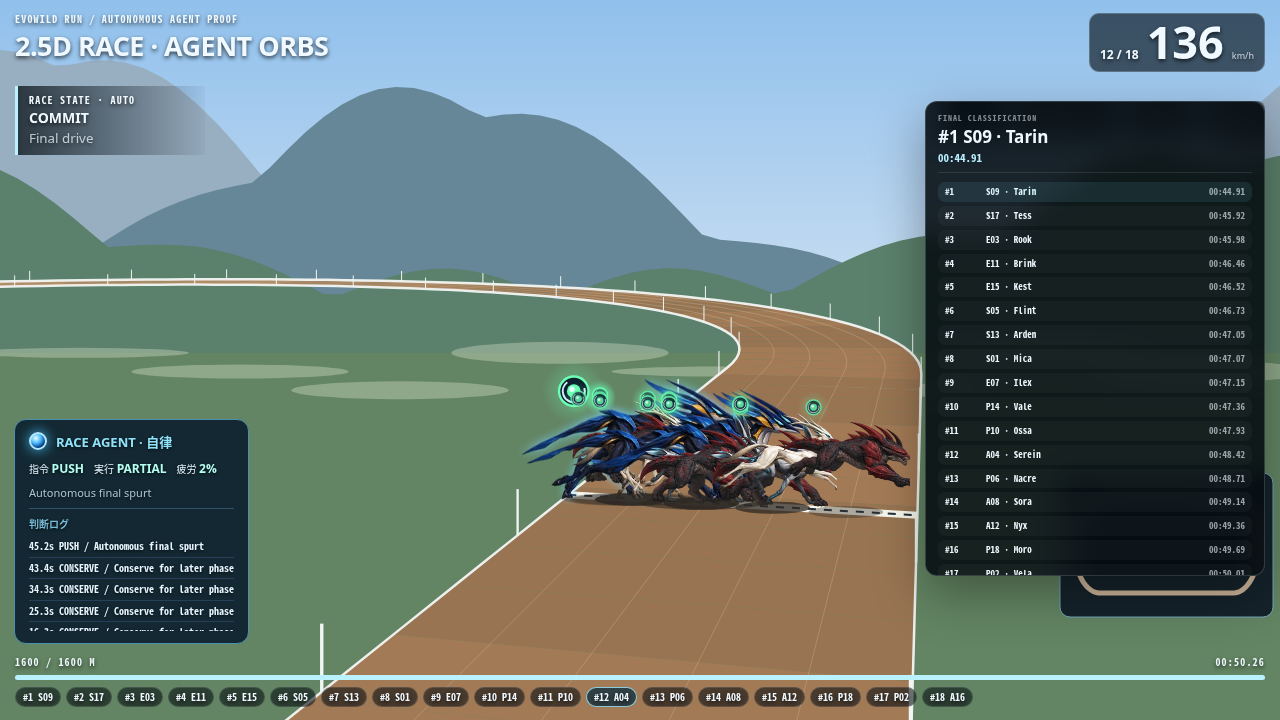
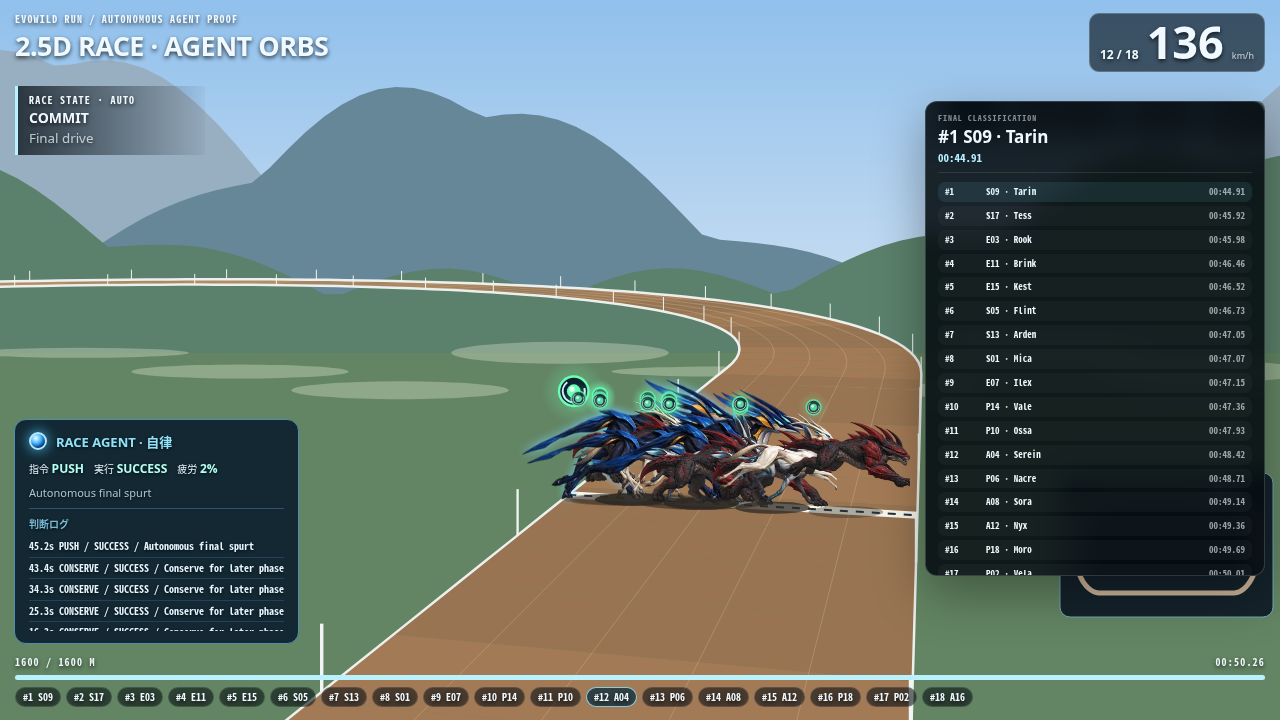
docs(2p5d): recover passing final sweep and current desktop Android evidence

Changed region(s): [[0.0625, 0.5806, 0.25, 0.9167]]

diff --git a/docs/2p5d/evidence/20261025-flow/README.md b/docs/2p5d/evidence/20261025-flow/README.md
@@ -6,6 +6,15 @@ Child branch: `feat/2p5d-flow-persistence-20261025` (Draft PR #132, based on #13
 
 Both user-attached split ZIPs were downloaded successfully (19,899,200 and 16,622,054 bytes). The eleven PNG byte streams were combined in a temporary ZIP so the unchanged repository importer could validate all eleven atomically. `python3 scripts/verify_2p5d_mockups.py` passes all eleven SHA-256 values. No reference, hash, importer or verifier was changed. Original PNGs were pushed in `f904fd95a210d21c978d49320f60df7e90810a17`; GitHub contents API confirmed all eleven filenames and sizes.
 
+## Recovery and final results
+
+Resumed from remote checkpoint `c040191fc19fbc0eb0925e4231fe9d4dc5e61675` by fast-forward, preserving that externally saved interruption record. The pending local suite had already completed: **54 passed (2.9m)**. Its log and latest PNGs were recovered without rerunning imports, fixes or completed races. Screenshots now correspond to source `ad0756349d707945da71588be2e93cdfd912ca7c` (same game source as `c0acb5f`).
+
+- [Combined local suite](final-targeted.log): 54/54 PASS across desktop and Android emulation.
+- [Latest verified Actions](https://github.com/badjoke-lab/evowild-test/actions/runs/40153976228) at `ad07563`: build PASS; **84 passed / 3 failed / 81 skipped**, overall FAILURE. [Extracted log](actions-summary.log). All new tests passed; remaining failures are the original three legacy assertions. The extra parent-head pressure assertion passed in this run.
+- [Agent outcomes](agent-outcome.log): 10/10 PASS, including actual lane request → PENDING → arrival → SUCCESS on both browser projects. The lane integration test advances the browser clock; the full race journey below does not.
+- No existing tests, balances, canonical art or specification/hash files were modified. This recovery only archives existing evidence and updates checkpoint/PR documentation.
+
 ## Actual browser journey
 
 `tests/game-loop-2p5d.spec.js` operates home → course → entrant #4 → seven-field CLOSER Agent → normal 1600m race → all 18 finish → history → reload. The full journey uses real runtime frames, no finishReview, no injected result, no accelerated clock and no manual race commands. The pause assertion also confirms that no record is created while the race is incomplete. Displayed IDs/times are compared to the saved record; the record is unchanged after repeated reloads. Agent JSON export/import/reload, malformed/unknown-field/oversized input rejection, reset and navigation aborts are covered separately.
@@ -14,6 +23,9 @@ Desktop uses Chromium at 1280×720. Android uses Playwright Pixel 7 Chromium emu
 
 | Stage | Original mock | Desktop evidence | Android emulation evidence |
 |---|---|---|---|
+| Home | [03](../../mockups/03-home.png) | [home](game-home-desktop-chromium.png) | [home](game-home-android-chromium.png) |
+| Course | [04](../../mockups/04-course-selection.png) | [course](game-course-desktop-chromium.png) | [course](game-course-android-chromium.png) |
+| Entrant selection | [05](../../mockups/05-race-entry.png), [09](../../mockups/09-creature-stable.png) | [entrants](game-creatures-desktop-chromium.png) | [entrants](game-creatures-android-chromium.png) |
 | Pre-race settings | [02](../../mockups/02-race-agent-settings.png), [05](../../mockups/05-race-entry.png) | [setup](loop-setup-desktop-chromium.png) | [setup](loop-setup-android-chromium.png) |
 | Running on the oval | [01](../../mockups/01-race-agent-orb-race.png) | [race](loop-race-desktop-chromium.png) | [race](loop-race-android-chromium.png) |
 | Real classification | [07](../../mockups/07-race-results.png) | [results](loop-results-desktop-chromium.png) | [results](loop-results-android-chromium.png) |
@@ -23,9 +35,11 @@ Illustrative mock names, race distances/laps, ages, training numbers, economy an
 
 ## Findings and quality gate
 
-- **KEEP (tested mechanics only):** interpolated within-step finish order, actual stored times/ranks, full player journey, repeated reload/deduplication, Agent File roundtrip/validation, pause and aborted-run exclusion. A same-tick crossing previously gave the first array entry the better place; regression coverage now proves a later array entry crossing earlier gets the better rank.
+- **KEEP (tested mechanics only):** interpolated within-step finish order, actual stored times/ranks, full player journey, repeated reload/deduplication, Agent File roundtrip/validation, pause and aborted-run exclusion. Agent lane requests remain pending until actual lane arrival; popup, live log and history share the observed result. A same-tick crossing previously gave the first array entry the better place; regression coverage now proves a later array entry crossing earlier gets the better rank.
 - **REVISE (visuals):** the six-frame side sprites remain side billboards in the rear camera; overlapping bodies make each runner/foot contact difficult to read. These screenshots do not prove an acceptable contact/push/recovery/flight/reach cycle. Proper same-morph rear-angle locomotion still needs a separate reviewed candidate. No asset was promoted or redesigned.
 - **REVISE (stadium):** oval world geometry, rails and start/finish stripe exist, but stands are sparse primitives and not consistently in view; the runtime is far below the approved stadium detail. The course diagram/marker alignment and full-lap scenery merit a follow-up visual pass.
+- **REVISE (history readability):** the real mobile history screenshot exposes concatenated time/command/result/reason text in `.agent-history-list`; this requires a small layout fix, not a replay of the already-tested race flow.
+- **Follow-up logic audit:** `targetSpeedFor` can initiate an opportunistic lane change separately from `runAutonomousAgent`. A live screenshot shows COMPLETE SHIFT alongside a failed Agent request. The resolved request result is now truthful, but provenance of these separate engine lane changes still needs one shared logging path and focused coverage. This path predates this PR; no final claim that every movement is explained by its Agent log.
 - **REVISE (UI):** every rendered runner receives an orb and the browser asserts orb count equals visible-runner count; pack occlusion limits readability. The full field is not always simultaneously in camera. Result analysis lacks the mock's real stamina graph/replay, and the desktop result panel requires scrolling. Mobile navigation is operable, but panels remain visually heavy.
 - **Unimplemented/TBD:** actual stable ownership, training, inheritance, breeding/economy rules, remote history/sync, replay and production-quality locomotion. No example mock values were used as final rules.
 
@@ -33,6 +47,13 @@ Illustrative mock names, race distances/laps, ages, training numbers, economy an
 
 Parent-head Actions [40152147602](https://github.com/badjoke-lab/evowild-test/actions/runs/40152147602) at `dcd3f56`: build passed, **63 passed / 4 failed / 81 skipped**. The handoff's three known failures remain (desktop and Android `race-quality.spec.js:47` PUSH comparison; desktop `motion-first.spec.js:3146` agility threshold). The additional Android `race-quality.spec.js:125` pressure assertion also failed on the parent before these changes. Reference-only checkpoint Actions [40153348139](https://github.com/badjoke-lab/evowild-test/actions/runs/40153348139) reproduced the same four failures.
 
-Local pre-change targeted run: 33 passed; one desktop screenshot teardown failed because a second local Playwright invocation overlapped and cleared the shared artifact directory. Subsequent suites run sequentially. The first new full-journey test incorrectly selected a diagnostic `data-agent-command` on the stage as an input; the selector was corrected to actual buttons, and both full journeys passed. See `initial-tests.log` and `full-journey.log`. Existing tests were not deleted or relaxed.
+Local pre-change targeted run: 33 passed; one desktop screenshot teardown failed because a second local Playwright invocation overlapped and cleared the shared artifact directory. The final combined suite ran sequentially and all 54 tests passed, including that screenshot test. The first new full-journey test incorrectly selected a diagnostic `data-agent-command` on the stage as an input; the selector was corrected to actual buttons, and both full journeys passed. See `initial-tests.log` and `full-journey.log`. Existing tests were not deleted or relaxed.
 
 Full-game visual acceptance and physical Android testing remain outstanding. A passing build or test does not grant visual KEEP.
+
+## Next bounded work
+
+1. Fix mobile history log column/spacing/wrapping for time, command, result and reason (mock 07/08); reuse the saved evidence and isolate validation to this view. Then reconcile the separate engine lane-planning path with Agent logging without inventing new command semantics.
+2. Improve spectator readability of the existing oval: validate stands/start-finish/rails over a full lap and reduce runner/orb overlap at race size on PC and mobile. Preserve the existing course and canonical creature identity; compare mocks 01/06.
+3. Track the three legacy failing tests in their own follow-up; do not change command balance or a test threshold merely to turn CI green.
+4. Proper rear-angle gait needs a separately reviewed canonical-morph candidate; the current side sheets remain REVISE. Training/genetics/economy continue to require approved rules.
